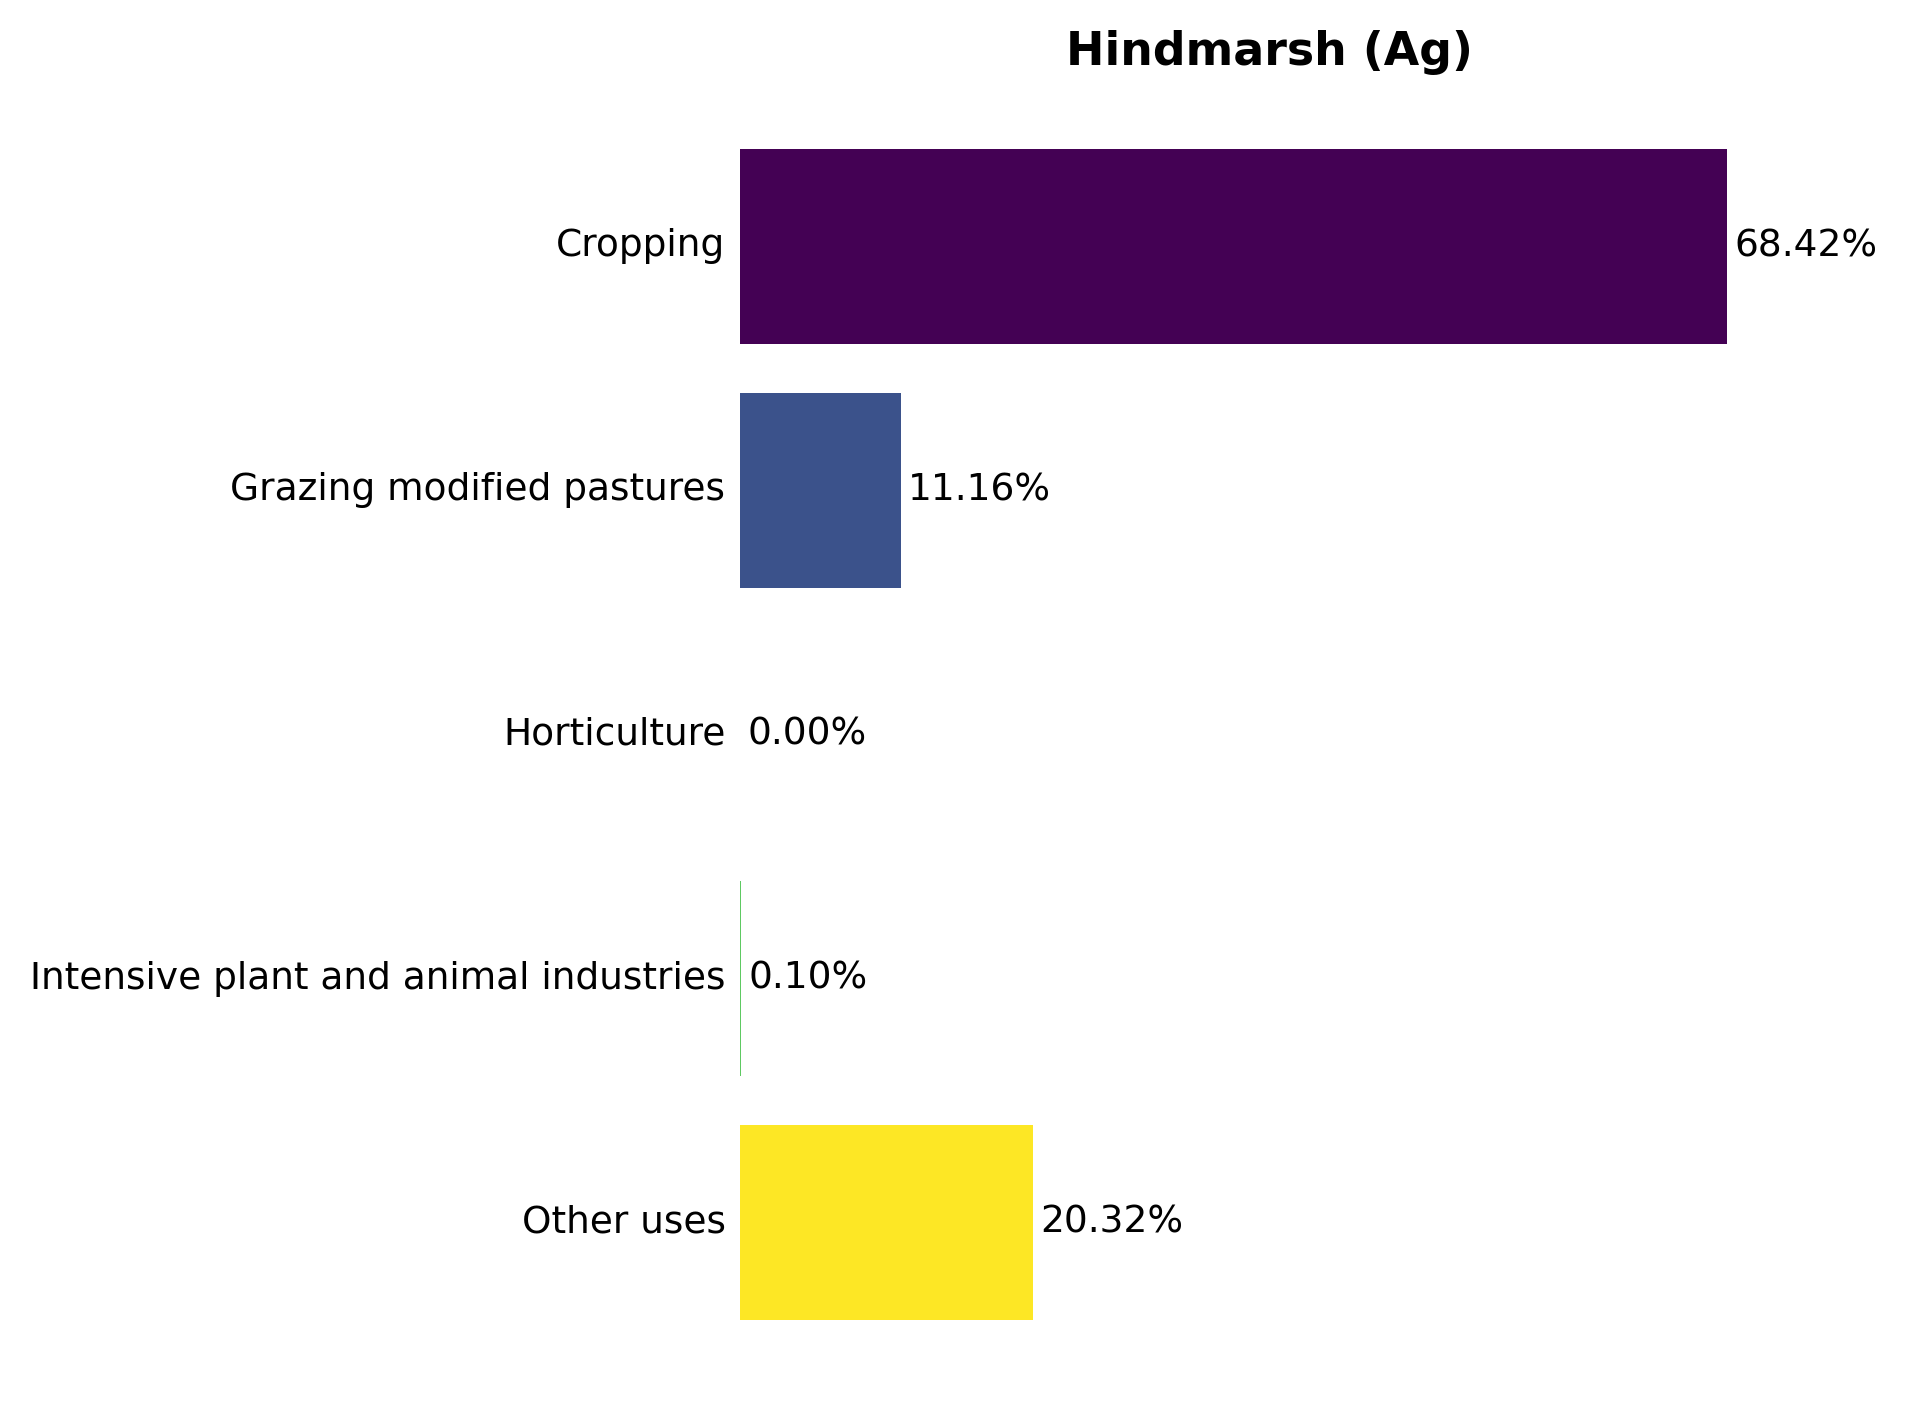
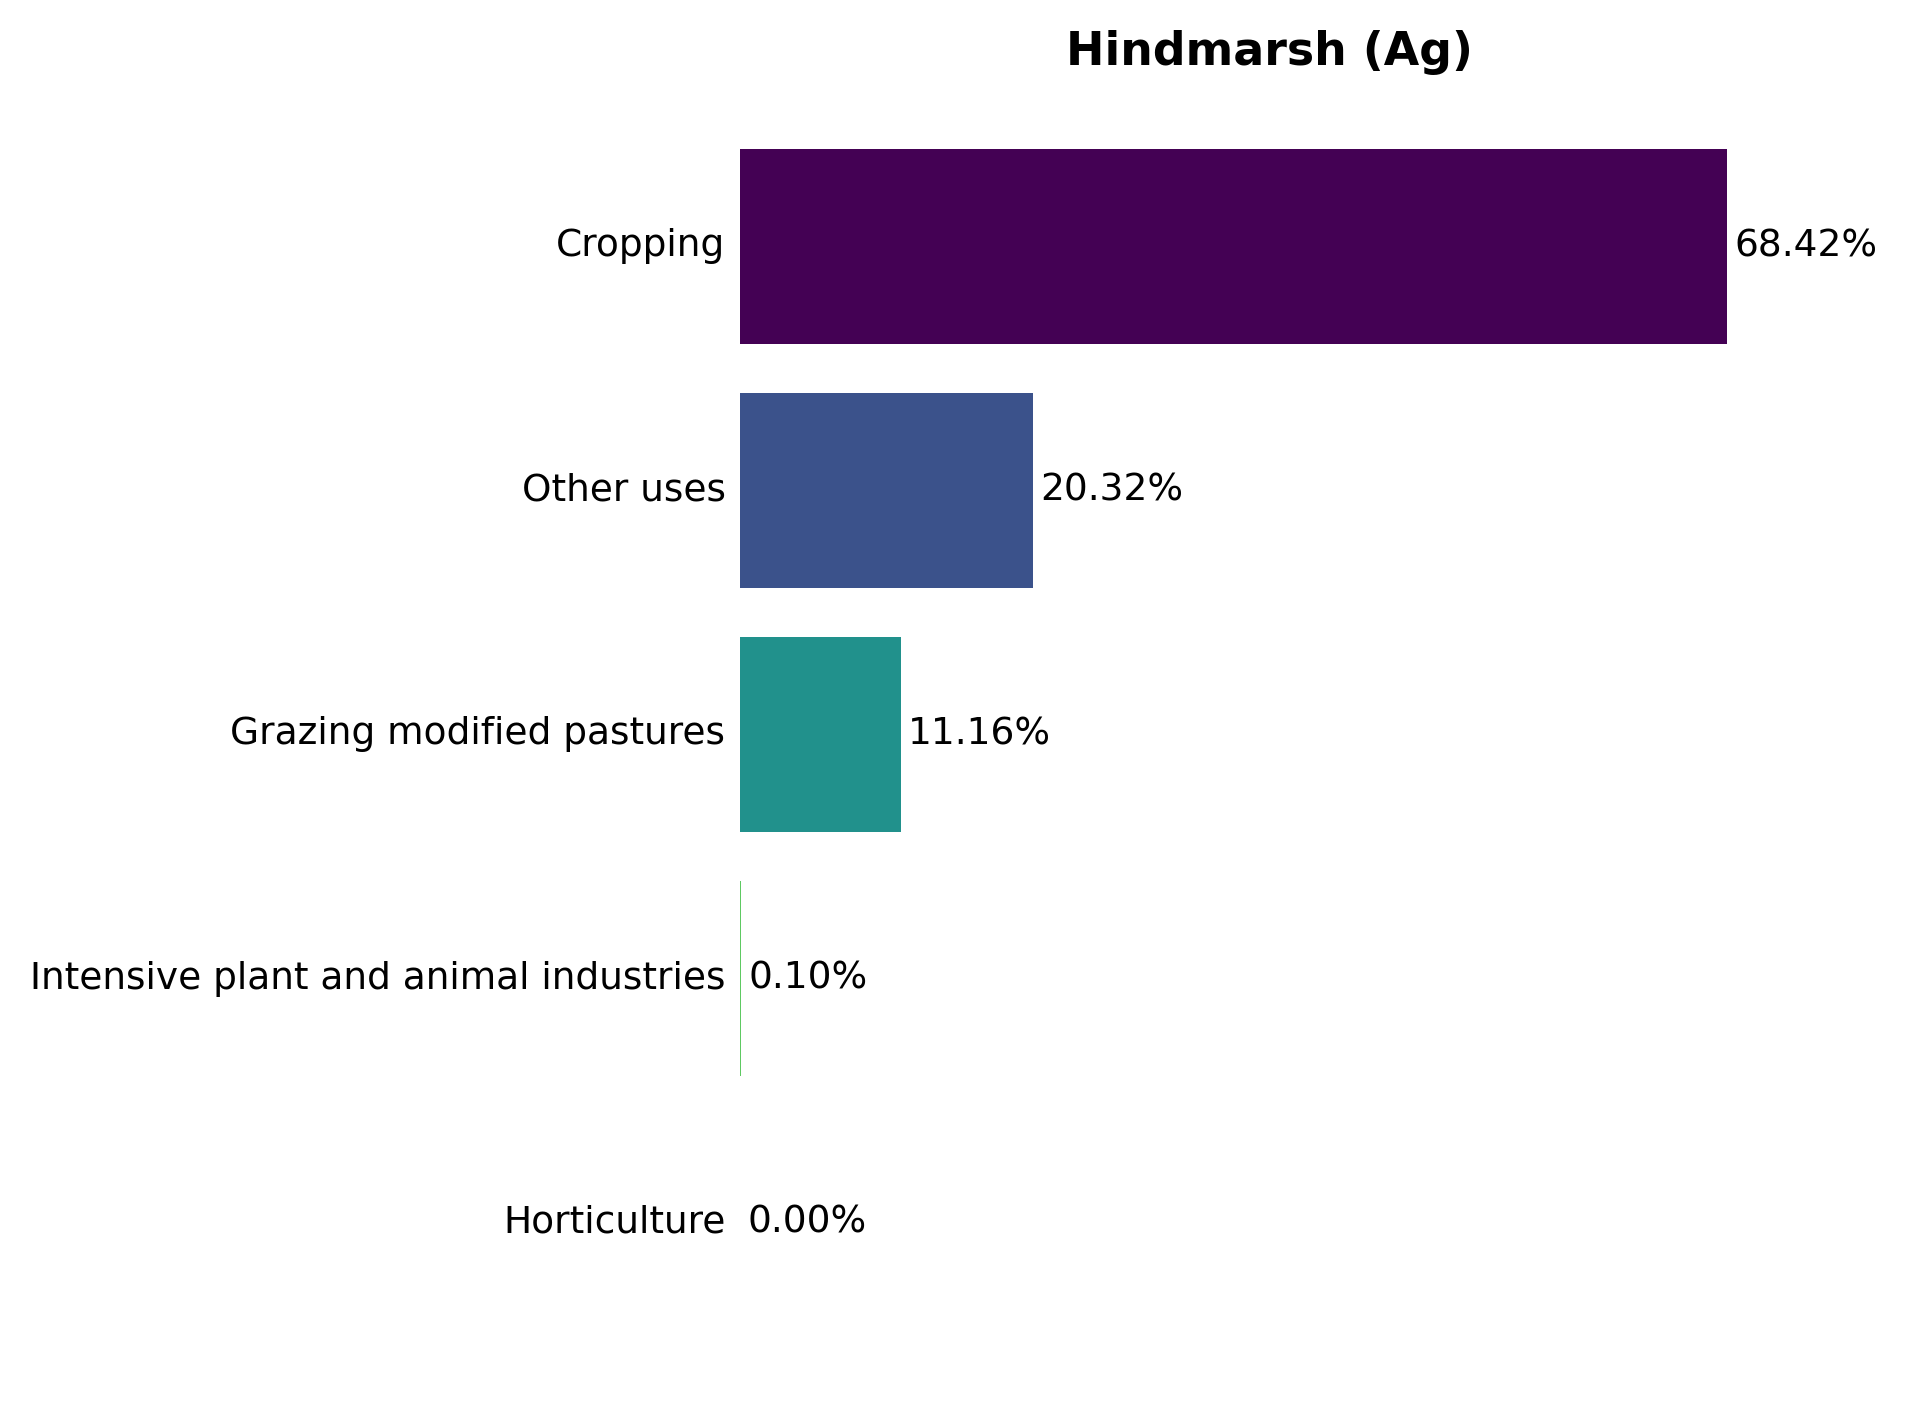
done

Changed region(s): [[0.1238, 0.2811, 0.6188, 0.5933], [0.2475, 0.7807, 0.6188, 0.9368], [0.1238, 0.3123, 0.3713, 0.3747]]

diff --git a/report_land_use.py b/report_land_use.py
@@ -41,10 +41,7 @@ def report_plots(area, file_name, report_type, class_counts, total):
         print(f"No data to plot for {area} ({report_type})")
         return
 
-    items = sorted(
-        class_counts.items(),
-        key=lambda x: (x[0].strip().lower().startswith("other"), x[0].strip().lower())
-    )
+    items = sorted(class_counts.items(), key=lambda x: x[1], reverse=True)
     labels = [label for label, _ in items]
     percents = [(c / total) * 100 for _, c in items]
 

diff --git a/validate.py b/validate.py
@@ -1,0 +1,7 @@
+import pandas as pd
+
+df = pd.read_csv("test.csv")
+total = df["Count"].sum()
+result = df.groupby("AGIND")["Count"].sum().reset_index()
+result["Percent"] = (result["Count"] / total) * 100
+print(result)
